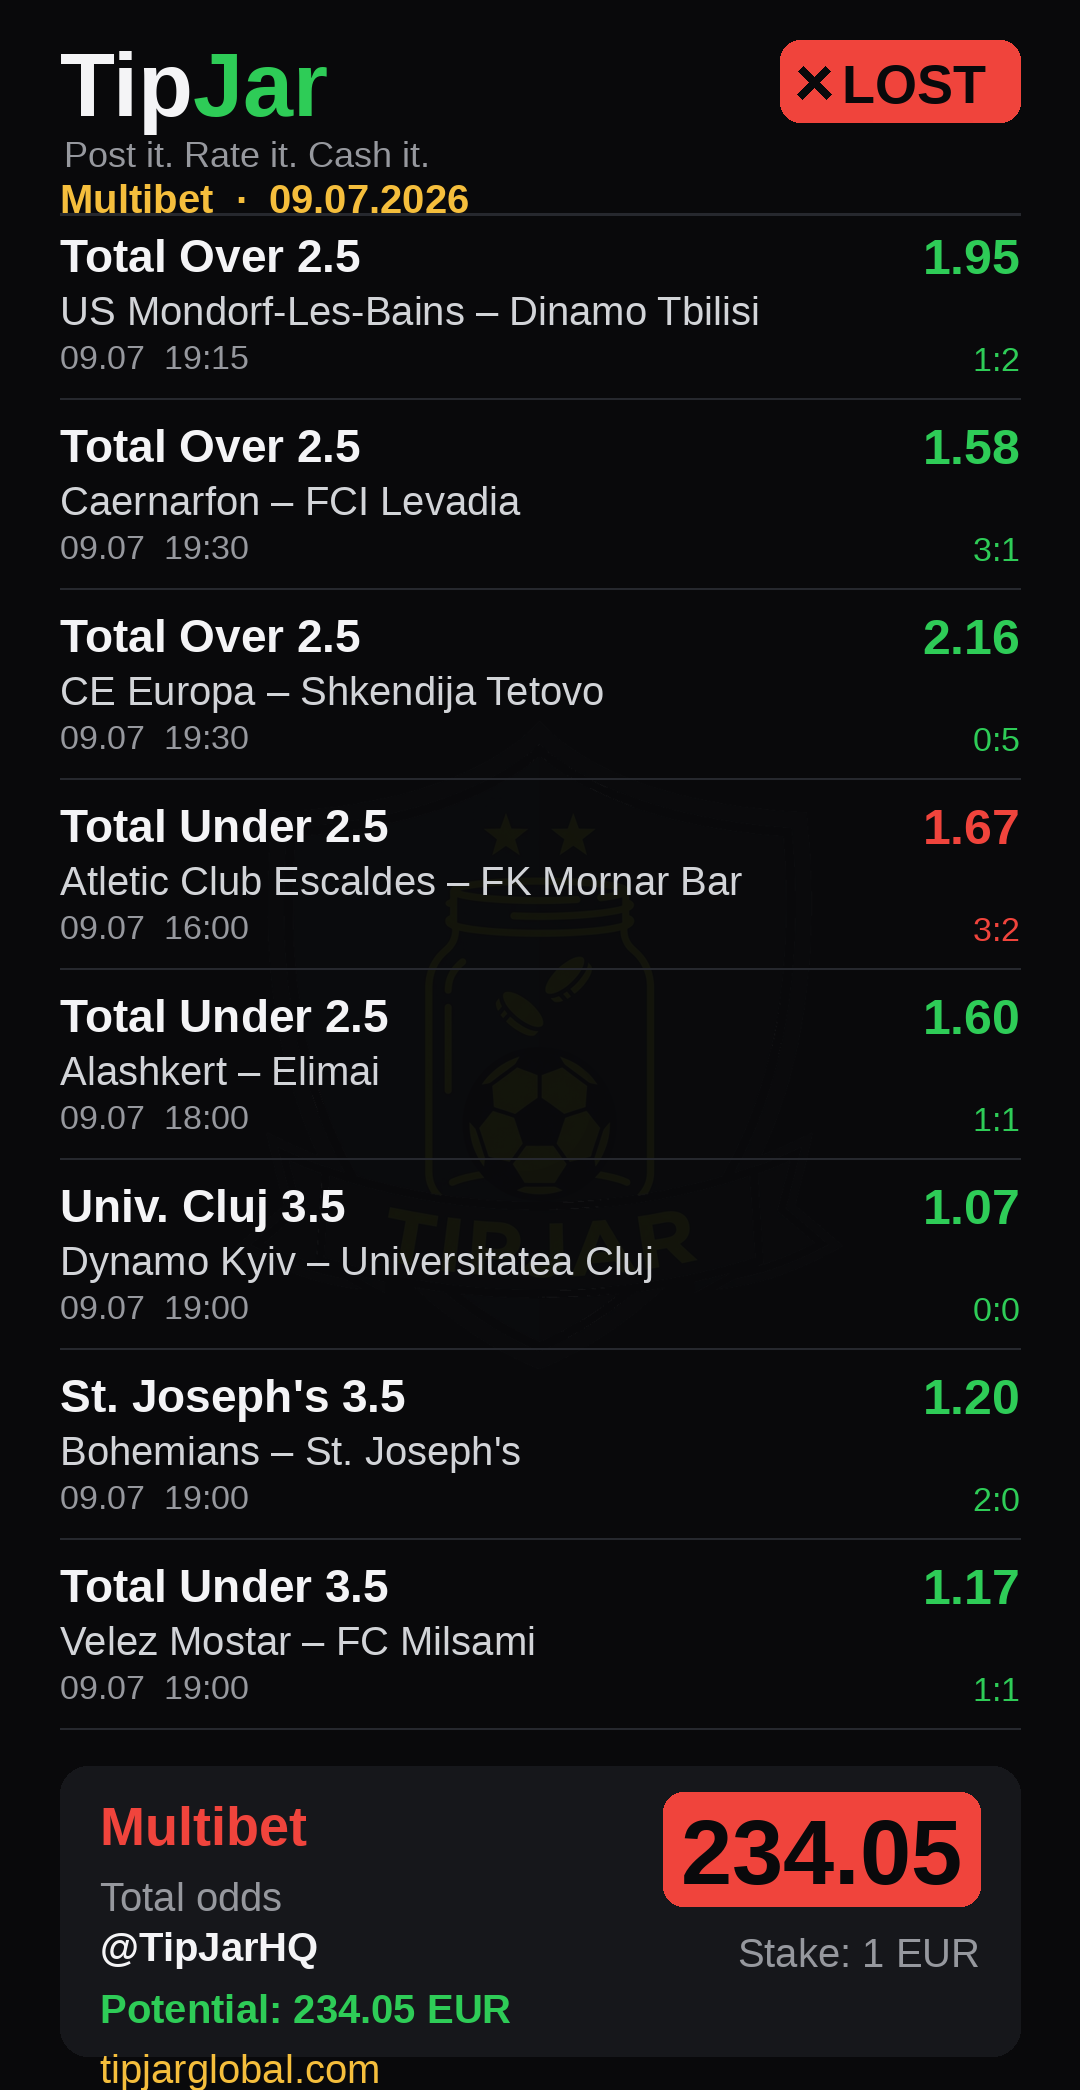
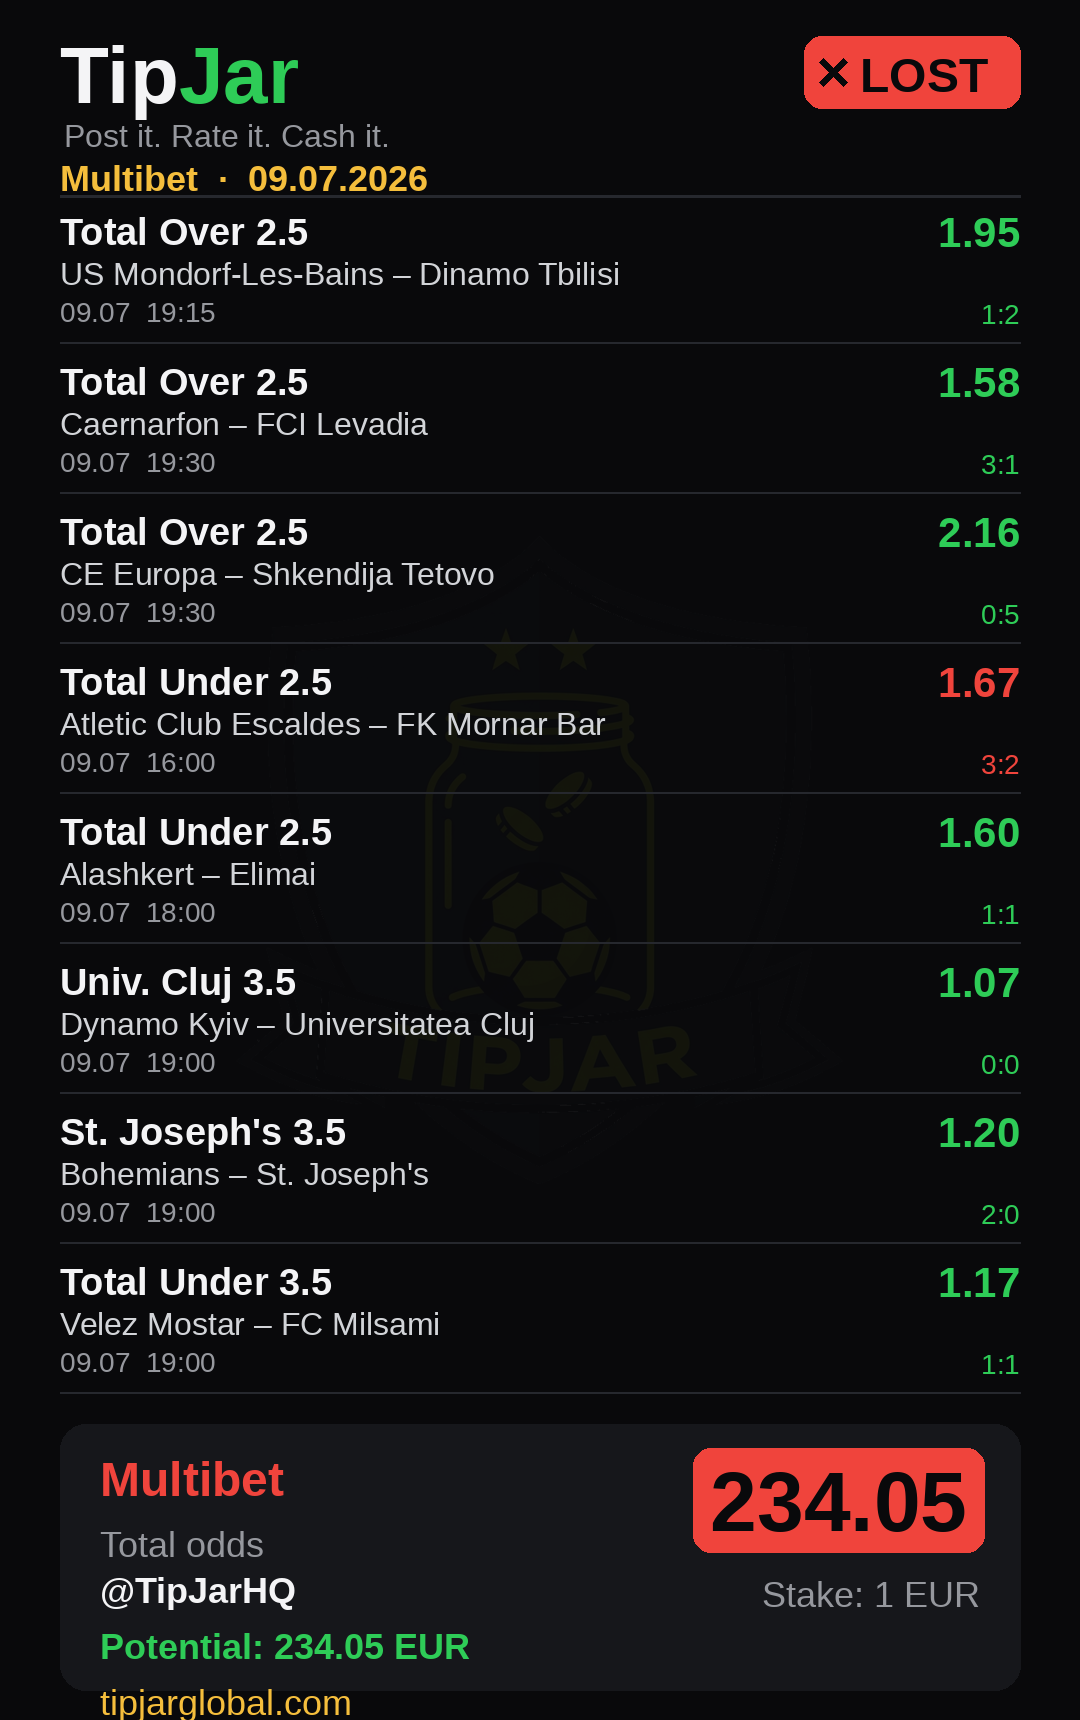
auto-commit for c84bc86d-1406-41da-85f5-4504c0f7566b

diff --git a/scripts/render_ad_slips.py b/scripts/render_ad_slips.py
@@ -36,21 +36,21 @@ def fit(txt, path, hi, lo, maxw):
 
 def render(legs, total_odds, stake, potential, out_path, subtitle):
     W, pad = 1080, 60
-    f_logo = font(FB, 90)
-    f_tag = font(FR, 36)
-    f_badge = font(FB, 54)
-    f_sub = font(FB, 40)
-    f_teams = font(FR, 40)
-    f_meta = font(FR, 34)
-    f_odd = font(FB, 50)
-    f_big = font(FB, 92)
-    f_lbl = font(FR, 40)
-    f_lblB = font(FB, 54)
-    f_foot = font(FB, 40)
+    f_logo = font(FB, 80)
+    f_tag = font(FR, 32)
+    f_badge = font(FB, 48)
+    f_sub = font(FB, 36)
+    f_teams = font(FR, 32)
+    f_meta = font(FR, 28)
+    f_odd = font(FB, 42)
+    f_big = font(FB, 84)
+    f_lbl = font(FR, 36)
+    f_lblB = font(FB, 48)
+    f_foot = font(FB, 36)
 
-    head_h = 230
-    foot_h = 340
-    row_h = 190
+    head_h = 210
+    foot_h = 310
+    row_h = 150
 
     H = head_h + len(legs) * row_h + foot_h
     img = Image.new("RGB", (W, H), VOID)
@@ -67,58 +67,58 @@ def render(legs, total_odds, stake, potential, out_path, subtitle):
         pass
 
     # header
-    d.text((pad, 34), "Tip", font=f_logo, fill=WHITE)
+    d.text((pad, 30), "Tip", font=f_logo, fill=WHITE)
     tw = d.textlength("Tip", font=f_logo)
-    d.text((pad + tw, 34), "Jar", font=f_logo, fill=GREEN)
-    d.text((pad + 4, 134), "Post it. Rate it. Cash it.", font=f_tag, fill=GREY)
+    d.text((pad + tw, 30), "Jar", font=f_logo, fill=GREEN)
+    d.text((pad + 4, 118), "Post it. Rate it. Cash it.", font=f_tag, fill=GREY)
 
     badge = "LOST"
     bw = d.textlength(badge, font=f_badge)
-    bx0 = W - pad - bw - 96
-    d.rounded_rectangle([bx0, 40, W - pad, 122], 20, fill=RED)
-    cx, cy = bx0 + 34, 82
-    d.line([(cx - 14, cy - 14), (cx + 14, cy + 14)], fill=VOID, width=8)
-    d.line([(cx - 14, cy + 14), (cx + 14, cy - 14)], fill=VOID, width=8)
-    d.text((bx0 + 62, 54), badge, font=f_badge, fill=VOID)
+    bx0 = W - pad - bw - 88
+    d.rounded_rectangle([bx0, 36, W - pad, 108], 18, fill=RED)
+    cx, cy = bx0 + 30, 72
+    d.line([(cx - 12, cy - 12), (cx + 12, cy + 12)], fill=VOID, width=7)
+    d.line([(cx - 12, cy + 12), (cx + 12, cy - 12)], fill=VOID, width=7)
+    d.text((bx0 + 56, 48), badge, font=f_badge, fill=VOID)
 
-    d.text((pad, 176), subtitle, font=f_sub, fill=AMBER)
-    d.line([pad, head_h - 16, W - pad, head_h - 16], fill=LINE, width=3)
+    d.text((pad, 158), subtitle, font=f_sub, fill=AMBER)
+    d.line([pad, head_h - 14, W - pad, head_h - 14], fill=LINE, width=3)
 
     y = head_h
     for lg in legs:
         col = GREEN if lg["status"] == "won" else RED
         odd = lg["odd"]
         ow = d.textlength(odd, font=f_odd)
-        mkt_f = fit(lg["market"], FB, 46, 30, W - 2 * pad - ow - 40)
+        mkt_f = fit(lg["market"], FB, 38, 26, W - 2 * pad - ow - 40)
         d.text((pad, y), lg["market"], font=mkt_f, fill=WHITE)
         d.text((W - pad - ow, y - 2), odd, font=f_odd, fill=col)
-        y += 58
+        y += 46
         teams = f"{lg['home']} \u2013 {lg['away']}"
-        tf = fit(teams, FR, 40, 26, W - 2 * pad)
+        tf = fit(teams, FR, 32, 22, W - 2 * pad)
         d.text((pad, y), teams, font=tf, fill=(210, 212, 216))
-        y += 50
+        y += 40
         d.text((pad, y), lg["time"], font=f_meta, fill=GREY)
         res = lg["result"]
         rw = d.textlength(res, font=f_meta)
         d.text((W - pad - rw, y + 2), res, font=f_meta, fill=col)
-        y += 60
+        y += 46
         d.line([pad, y, W - pad, y], fill=LINE, width=2)
-        y += 22
+        y += 18
 
-    fy = y + 16
-    d.rounded_rectangle([pad, fy, W - pad, H - 34], 28, fill=CARD)
-    d.text((pad + 40, fy + 30), "Multibet", font=f_lblB, fill=RED)
-    d.text((pad + 40, fy + 108), "Total odds", font=f_lbl, fill=GREY)
+    fy = y + 14
+    d.rounded_rectangle([pad, fy, W - pad, H - 30], 26, fill=CARD)
+    d.text((pad + 40, fy + 28), "Multibet", font=f_lblB, fill=RED)
+    d.text((pad + 40, fy + 100), "Total odds", font=f_lbl, fill=GREY)
     ot = f"{total_odds:.2f}"
     otw = d.textlength(ot, font=f_big)
-    d.rounded_rectangle([W - pad - otw - 76, fy + 26, W - pad - 40, fy + 140], 20, fill=RED)
-    d.text((W - pad - otw - 58, fy + 34), ot, font=f_big, fill=VOID)
-    d.text((pad + 40, fy + 158), "@TipJarHQ", font=f_foot, fill=WHITE)
+    d.rounded_rectangle([W - pad - otw - 70, fy + 24, W - pad - 36, fy + 128], 18, fill=RED)
+    d.text((W - pad - otw - 53, fy + 30), ot, font=f_big, fill=VOID)
+    d.text((pad + 40, fy + 146), "@TipJarHQ", font=f_foot, fill=WHITE)
     st = f"Stake: {stake}"
-    d.text((W - pad - d.textlength(st, font=f_lbl) - 40, fy + 164), st, font=f_lbl, fill=GREY)
+    d.text((W - pad - d.textlength(st, font=f_lbl) - 40, fy + 150), st, font=f_lbl, fill=GREY)
     pt = f"Potential: {potential}"
-    d.text((pad + 40, fy + 220), pt, font=f_foot, fill=GREEN)
-    d.text((pad + 40, fy + 280), "tipjarglobal.com", font=f_lbl, fill=AMBER)
+    d.text((pad + 40, fy + 202), pt, font=f_foot, fill=GREEN)
+    d.text((pad + 40, fy + 258), "tipjarglobal.com", font=f_lbl, fill=AMBER)
 
     img.save(out_path, format="PNG")
     print("saved", out_path, img.size)
